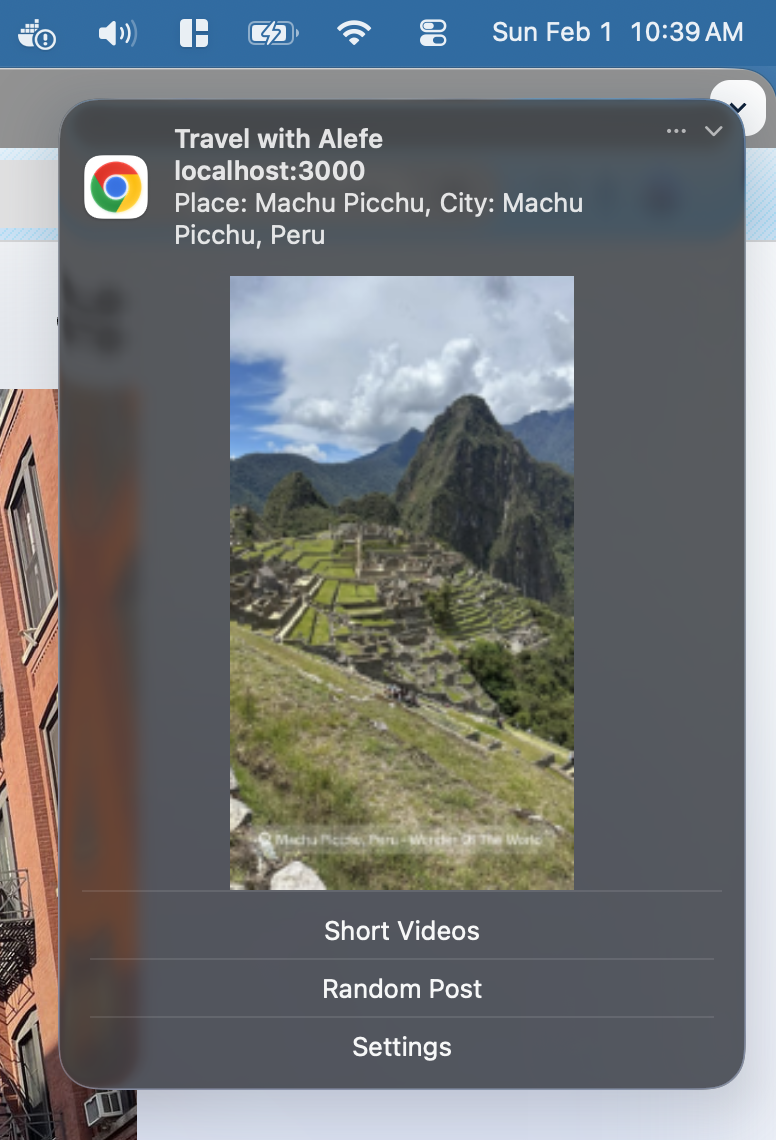
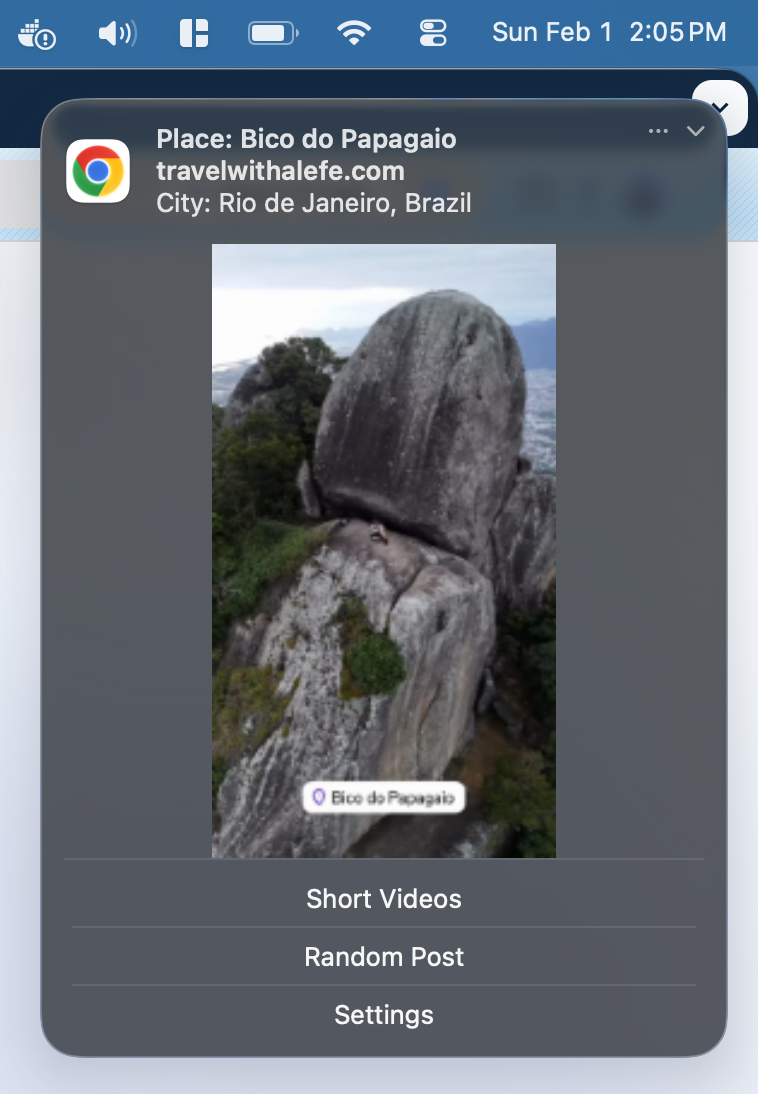
Improve push notification handling

diff --git a/functions/index.js b/functions/index.js
@@ -781,17 +781,18 @@ function buildNotificationPayload(media) {
   if (cityName) bodyParts.push(`City: ${cityName}`);
   if (countryName) bodyParts.push(countryName);
 
-  const body = bodyParts.join(', ') || 'Check out this travel content!';
+  const body =
+    bodyParts.slice(1).join(', ') || 'Check out this travel content!';
   const contentUrl = mediaToUrl(media);
 
   if (media.file.includes('.mp4')) {
-    media.file.replace('.mp4', '-thumb.png');
+    media.file = media.file.replace('.mp4', '-thumb.png');
   }
 
   return {
     topic: 'daily-content-en',
     notification: {
-      title: 'Travel with Alefe',
+      title: bodyParts[0] || 'Travel with Alefe',
       body: body,
       imageUrl: `https://storage.googleapis.com/files.viajarcomale.com/resize/500${media.file}`,
     },
@@ -827,13 +828,14 @@ function buildNotificationPayloadPt(media) {
   if (cityName) bodyParts.push(`Cidade: ${cityName}`);
   if (countryName) bodyParts.push(countryName);
 
-  const body = bodyParts.join(', ') || 'Confira este conteúdo de viagem!';
+  const body =
+    bodyParts.slice(1).join(', ') || 'Confira este conteúdo de viagem!';
   const contentUrl = mediaToUrl(media);
 
   return {
     topic: 'daily-content-pt',
     notification: {
-      title: 'Viajar com Alê',
+      title: bodyParts[0] || 'Viajar com Alê',
       body: body,
       imageUrl: `https://storage.googleapis.com/files.viajarcomale.com/resize/500${media.file}`,
     },
@@ -856,7 +858,7 @@ function buildNotificationPayloadPt(media) {
 }
 
 // Scheduled function: Send daily notification at 3:00 PM UTC
-exports.sendDailyNotification = onSchedule('0 15 * * *', async () => {
+exports.sendDailyNotification = onSchedule('0 15,21 * * *', async () => {
   console.log('Starting daily notification job...');
 
   try {

diff --git a/src/sw.js b/src/sw.js
@@ -72,23 +72,19 @@ self.addEventListener('notificationclick', async (event) => {
 
   if (event.action === 'short_videos') {
     urlToOpen = '/videos';
-  } else if (event.action === 'random_post') {
-    const randomResponse = await fetch('/api/random');
-    const randomData = await randomResponse.json();
-    urlToOpen = randomData.url || '/';
   }
 
   event.waitUntil(
-    clients
-      .matchAll({ type: 'window', includeUncontrolled: true })
-      .then((windowClients) => {
-        for (const client of windowClients) {
-          if (client.url.includes(self.location.origin) && 'focus' in client) {
-            client.navigate(urlToOpen);
-            return client.focus();
-          }
-        }
+    new Promise(async () => {
+      if (event.action === 'random_post') {
+        const randomResponse = await fetch('/api/random');
+        const randomData = await randomResponse.json();
+        urlToOpen = randomData.url || '/';
+      }
+
+      return clients.matchAll({ type: 'window' }).then(() => {
         return clients.openWindow(urlToOpen);
-      }),
+      });
+    }),
   );
 });

diff --git a/public/app.js b/public/app.js
@@ -312,11 +312,15 @@ pwa.checkWindowControlsOverlay = () => {
 // Navigation utilities
 const navigation = {
   showSpinner: (e) => {
-    const link = e?.target?.href || e?.target?.closest('a')?.href;
+    if (e.target.getAttribute('href') === '#') {
+      return;
+    }
 
     if ((e?.target?.closest('a')?.target || e?.target?.target) === '_blank') {
       return;
     }
+
+    const link = e?.target?.href || e?.target?.closest('a')?.href;
 
     if (e?.metaKey || !link) {
       return;
@@ -324,7 +328,6 @@ const navigation = {
 
     if (
       !link.includes(window.location.origin + '/') ||
-      link.includes(window.location.origin + window.location.pathname + '#') ||
       link === window.location.href
     ) {
       return;

diff --git a/README.md b/README.md
@@ -26,6 +26,6 @@ The [./functions](./functions/) directory contains Firebase Cloud Functions that
 
 ![Web App Screenshot](./webapp2.png)
 
-<div style="text-align: center;">
-  <img src="./public/images/notification_2.png" alt="Push Notifications" style="max-width: 400px;">
+<div align="center">
+  <img src="./public/images/notification_2.png" alt="Push Notifications" style="width: 350px;">
 </div>
